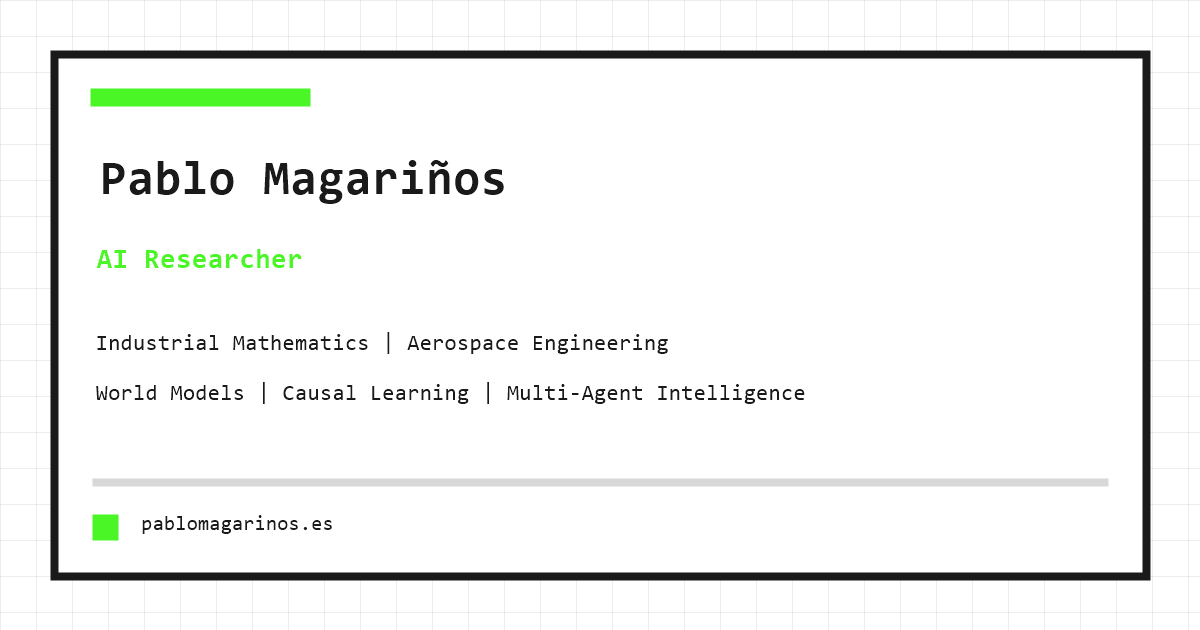
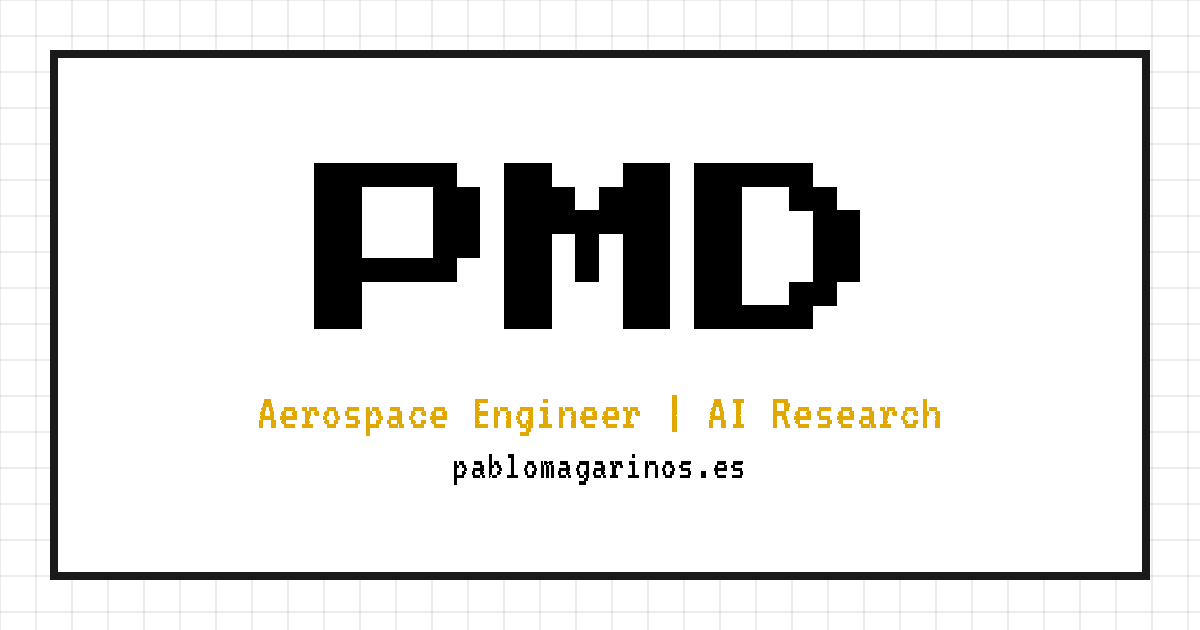
Add URL encoding filter, enhance date formatting, and improve sharing options in essays

diff --git a/.eleventy.js b/.eleventy.js
@@ -38,9 +38,17 @@ module.exports = function (eleventyConfig) {
     return new URL(targetUrl, normalizedBaseUrl).toString();
   });
   eleventyConfig.addFilter("json", (value) => JSON.stringify(value));
-  eleventyConfig.addFilter("dateToFormat", (date) => {
+  eleventyConfig.addFilter("urlEncode", (value = "") => encodeURIComponent(value));
+  eleventyConfig.addFilter("dateToFormat", (date, format = "yyyy-MM-dd") => {
     if (!(date instanceof Date)) return "";
-    return date.toISOString().slice(0, 10);
+
+    const [year, month, day] = date.toISOString().slice(0, 10).split("-");
+
+    if (format === "dd-MM-yyyy") {
+      return `${day}-${month}-${year}`;
+    }
+
+    return `${year}-${month}-${day}`;
   });
   eleventyConfig.addFilter("relativeUrl", (targetUrl, currentPageUrl = "/") => {
     if (!targetUrl) {

diff --git a/src/css/style.css b/src/css/style.css
@@ -351,11 +351,30 @@ hr {
   margin-bottom: var(--spacing);
 }
 
+.essay__meta {
+  display: flex;
+  flex-wrap: wrap;
+  align-items: baseline;
+  gap: 0.35rem;
+  margin-top: 0.5rem;
+}
+
 .essay__date {
-  display: block;
+  display: inline;
   font-size: 0.85rem;
   color: var(--color-muted);
-  margin-top: 0.5rem;
+}
+
+.essay__share-separator {
+  font-size: 0.85rem;
+  color: var(--color-muted);
+}
+
+.share-link,
+.linkedin-share-link,
+.x-share-link {
+  font-size: 0.85rem;
+  color: var(--color-notes-link);
 }
 
 /* --- Images (future) --- */
@@ -398,5 +417,12 @@ img {
 
   main {
     padding: 1.5rem 1rem;
+  }
+
+  .essay__share-separator--linkedin,
+  .essay__share-separator--x,
+  .linkedin-share-link,
+  .x-share-link {
+    display: none;
   }
 }

diff --git a/src/_data/site.js b/src/_data/site.js
@@ -11,7 +11,7 @@ module.exports = {
     "AI researcher with a background in aerospace engineering and industrial mathematics, focused on training algorithms, world models, and autonomous intelligence.",
   socialImage: "/assets/images/og-default.png",
   socialImageAlt:
-    "Pablo Magariños social card with retro styling and AI Researcher title.",
+    "PMD social preview card with Aerospace Engineer, AI Research, and pablomagarinos.es text.",
   favicon: "/assets/images/favicon.svg",
   faviconPng: "/assets/images/favicon.png",
   twitterHandle: "@pablodotmd",

diff --git a/src/_data/navigation.js b/src/_data/navigation.js
@@ -1,12 +1,13 @@
 module.exports = [
   {
-    title: "About",
-    url: "/",
-  },
-  {
     title: "Notes",
     url: "/notes/",
   },
+  {
+    title: "About",
+    url: "/",
+  },
+
   {
     title: "Experience",
     url: "/experience/",
